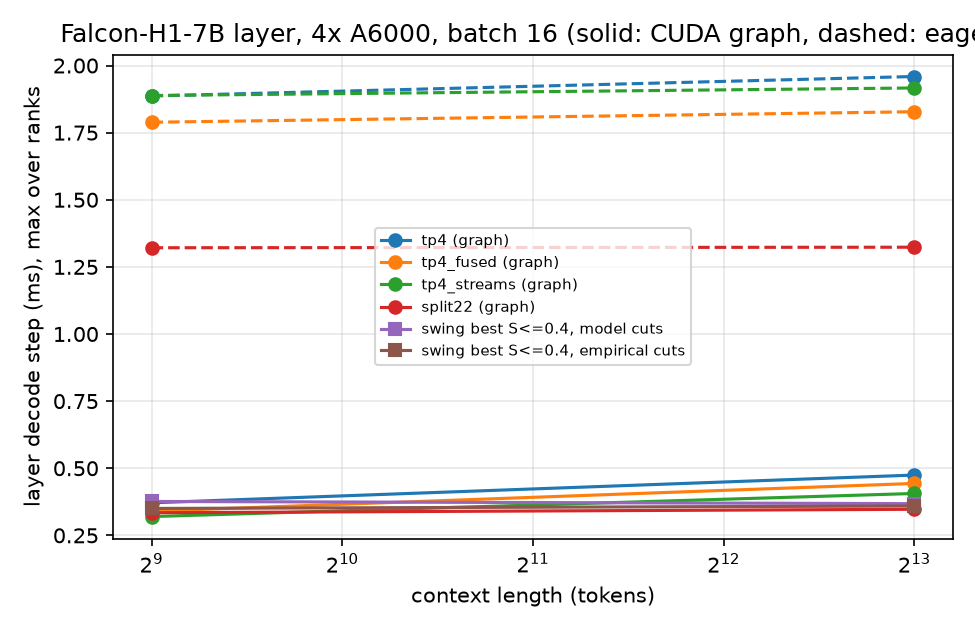
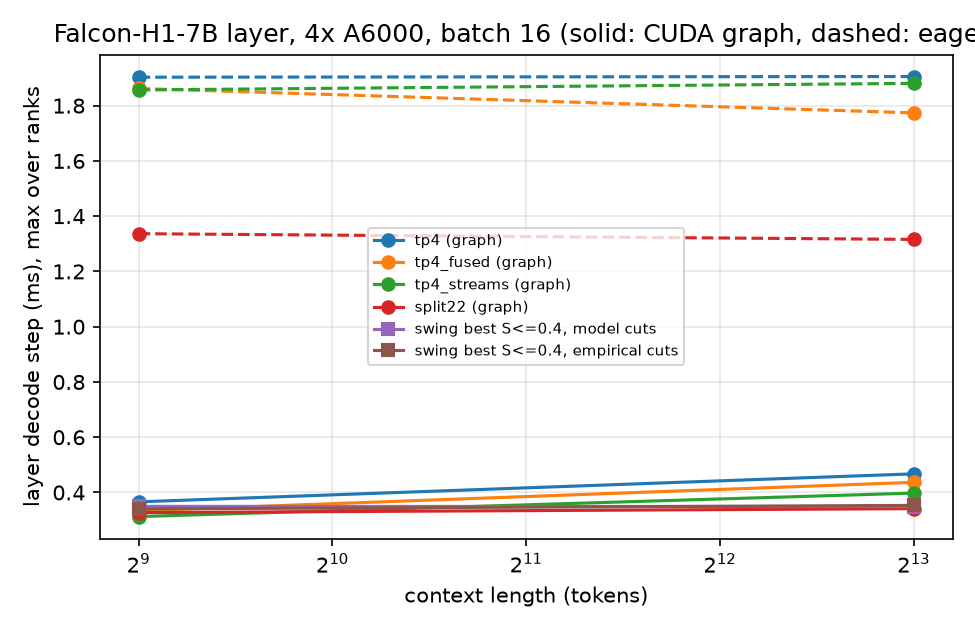
diagnostic: --no-collectives mode to measure per-rank compute without cross-rank waits

diff --git a/harness/layer.py b/harness/layer.py
@@ -137,14 +137,27 @@ class SwingMLP:
         return part * self.dm
 
 
+class _LocalOnly:
+    """Stands in for a GroupCoordinator in the no-collectives diagnostic: keeps the native norm path."""
+
+    def __init__(self, world_size: int):
+        self.world_size = world_size
+
+    def all_reduce(self, x: torch.Tensor) -> torch.Tensor:
+        return x * self.world_size
+
+
 class ParallelHybridLayer:
     def __init__(self, plan: RankPlan, w: RankWeights, dims: FalconH1Dims, groups: Groups, st: RankStates,
-                 ctx: DecodeCtx, device: torch.device):
+                 ctx: DecodeCtx, device: torch.device, collectives: bool = True):
         self.plan, self.w, self.dims, self.groups, self.ctx = plan, w, dims, groups, ctx
+        self.collectives = collectives
         self.device = device
         self.B, self.H = ctx.B, dims.hidden
         self.attn = AttentionBranch(plan, w, dims, st, ctx, device) if plan.attn is not None else None
-        norm_group = groups.group_for_ranks(plan.ssm.norm_ranks) if plan.ssm is not None else None
+        norm_group = groups.group_for_ranks(plan.ssm.norm_ranks) if (plan.ssm is not None and collectives) else None
+        if plan.ssm is not None and not collectives and len(plan.ssm.norm_ranks) > 1:
+            norm_group = _LocalOnly(len(plan.ssm.norm_ranks))  # diagnostic: same arithmetic path, no reduction
         self.ssm = SsmBranch(plan, w, dims, st, ctx, device, norm_group) if plan.ssm is not None else None
         self.mlp = SwingMLP(plan, w, dims)
         self.xn = torch.empty(ctx.B, dims.hidden, device=device, dtype=torch.bfloat16)
@@ -157,7 +170,7 @@ class ParallelHybridLayer:
             self.s_ssm = torch.cuda.Stream(device=device)
 
     def _ar(self, x: torch.Tensor, name: str, t: OpTimer) -> torch.Tensor:
-        if self.groups.world_size == 1:
+        if self.groups.world_size == 1 or not self.collectives:
             return x
         t.begin(name)
         y = self.tp.all_reduce(x)

diff --git a/harness/measure.py b/harness/measure.py
@@ -71,17 +71,17 @@ def measure(spec: RunSpec, groups: Groups, dims: FalconH1Dims, full: dict[str, t
     ctx = make_decode_ctx(spec.batch, spec.ctx, spec.kv_block, device)
     st = alloc_and_fill(plan, dims, ctx, spec.seed, device)
     h = input_hidden(spec.seed, spec.batch, dims.hidden, device)
-    layer = ParallelHybridLayer(plan, rw, dims, groups, st, ctx, device)
+    layer = ParallelHybridLayer(plan, rw, dims, groups, st, ctx, device, collectives=spec.collectives)
     barrier_sync()
 
     run_id = uuid.uuid4().hex[:8]
     ts = time.strftime("%Y-%m-%dT%H:%M:%S")
     base = dict(run_id=run_id, ts=ts, image_tag=image_tag, vllm_commit=vllm_commit(), mode=spec.mode, S=spec.swing,
                 w=w, cuts=(k if k is not None else ""), cuts_src=cuts_src, batch=spec.batch, ctx=spec.ctx,
-                kv_block=spec.kv_block, comm_tp=json.dumps(describe_comm(groups.tp)),
+                kv_block=spec.kv_block, comm_tp=json.dumps(describe_comm(groups.tp)) if spec.collectives else "none",
                 comm_pair=json.dumps(describe_comm(groups.pair)), tag=spec.tag)
 
-    if check:
+    if check and spec.collectives:
         out = layer.step(h, OpTimer(enabled=False)).clone()
         torch.cuda.synchronize()
         xr = cross_rank_max_abs(out, world)

diff --git a/harness/run.py b/harness/run.py
@@ -53,6 +53,7 @@ def main() -> None:
     ap.add_argument("--n-iter", type=int, default=100)
     ap.add_argument("--repeats", type=int, default=1)
     ap.add_argument("--check", action="store_true")
+    ap.add_argument("--no-collectives", action="store_true", help="diagnostic: per-rank compute only (outputs wrong)")
     args = ap.parse_args()
 
     if args.k in ("neutral", "model"):
@@ -61,7 +62,8 @@ def main() -> None:
         k, src = int(args.k), "manual"
     spec = RunSpec(mode=args.mode, swing=args.swing, k=k, cuts_src=src, batch=args.batch, ctx=args.ctx,
                    variant=args.variant, kv_block=args.kv_block, n_warm=args.n_warm, n_iter=args.n_iter,
-                   repeats=args.repeats, layer_idx=args.layer_idx, seed=args.seed, tag=args.tag)
+                   repeats=args.repeats, layer_idx=args.layer_idx, seed=args.seed, tag=args.tag,
+                   collectives=not args.no_collectives)
     groups = init_groups()
     dims, full = load_dims_and_weights(args)
     bw = BwTables.from_csv(args.bw) if os.path.exists(args.bw) else None

diff --git a/harness/config.py b/harness/config.py
@@ -99,6 +99,7 @@ class RunSpec:
     n_iter: int = 100
     repeats: int = 3
     repeat_offset: int = 0  # sweep.py sets this so outer repeats get distinct 'repeat' values
+    collectives: bool = True  # False = diagnostic: skip all collectives to measure per-rank compute (wrong outputs)
     layer_idx: int = 0
     seed: int = 0
     tag: str = ""

diff --git a/results/pilot/summary/summary.md b/results/pilot/summary/summary.md
@@ -4,9 +4,8 @@
 
 | batch | ctx | tp4 ms | tp4_fused | tp4_streams | split22 | swing best (S, cuts) | swing speedup |
 |---|---|---|---|---|---|---|---|
-| 4 | 2048 | 0.311 | - | - | - | S=0.2, grid:128 | 1.01x |
-| 16 | 512 | 0.371 | 1.09x | 1.16x | 1.11x | S=0.2, neutral | 1.08x |
-| 16 | 8192 | 0.475 | 1.07x | 1.17x | 1.37x | S=0.2, neutral | 1.33x |
+| 16 | 512 | 0.366 | 1.10x | 1.17x | 1.12x | S=0.2, neutral | 1.12x |
+| 16 | 8192 | 0.467 | 1.07x | 1.18x | 1.37x | S=0.2, neutral | 1.38x |
 
 ## Go / no-go
 
